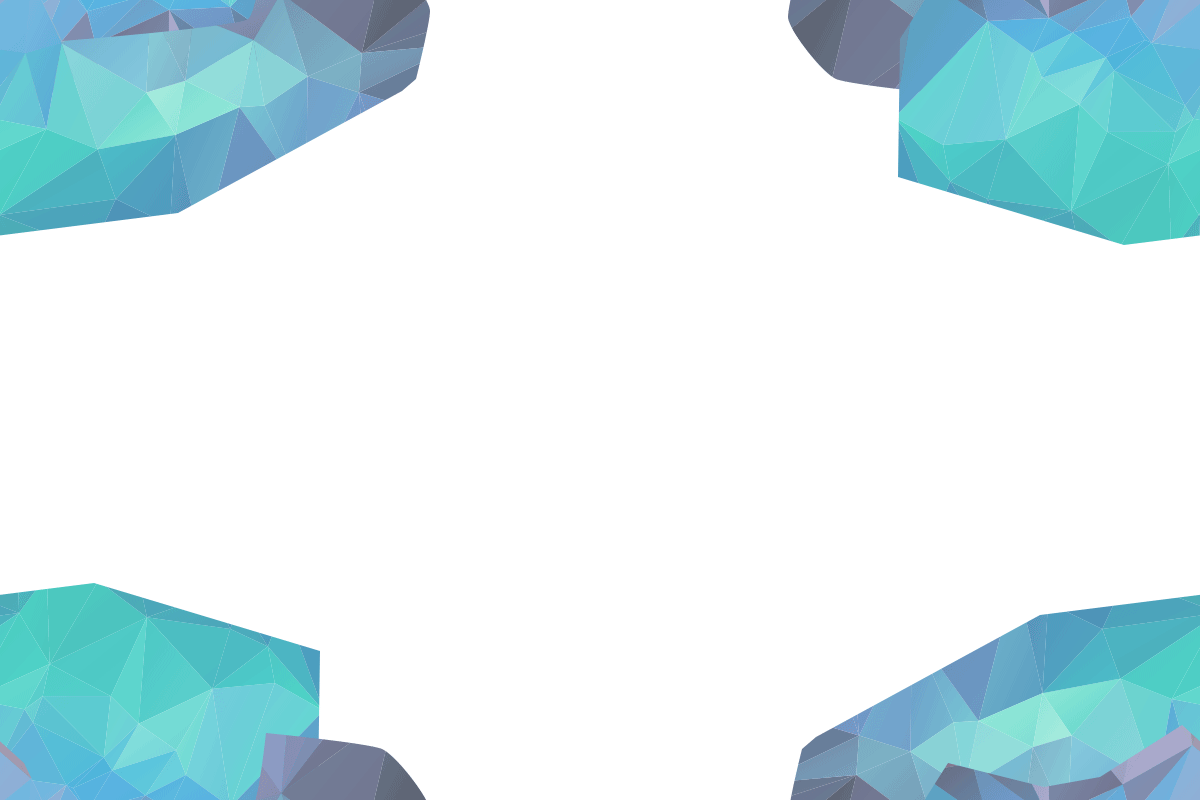
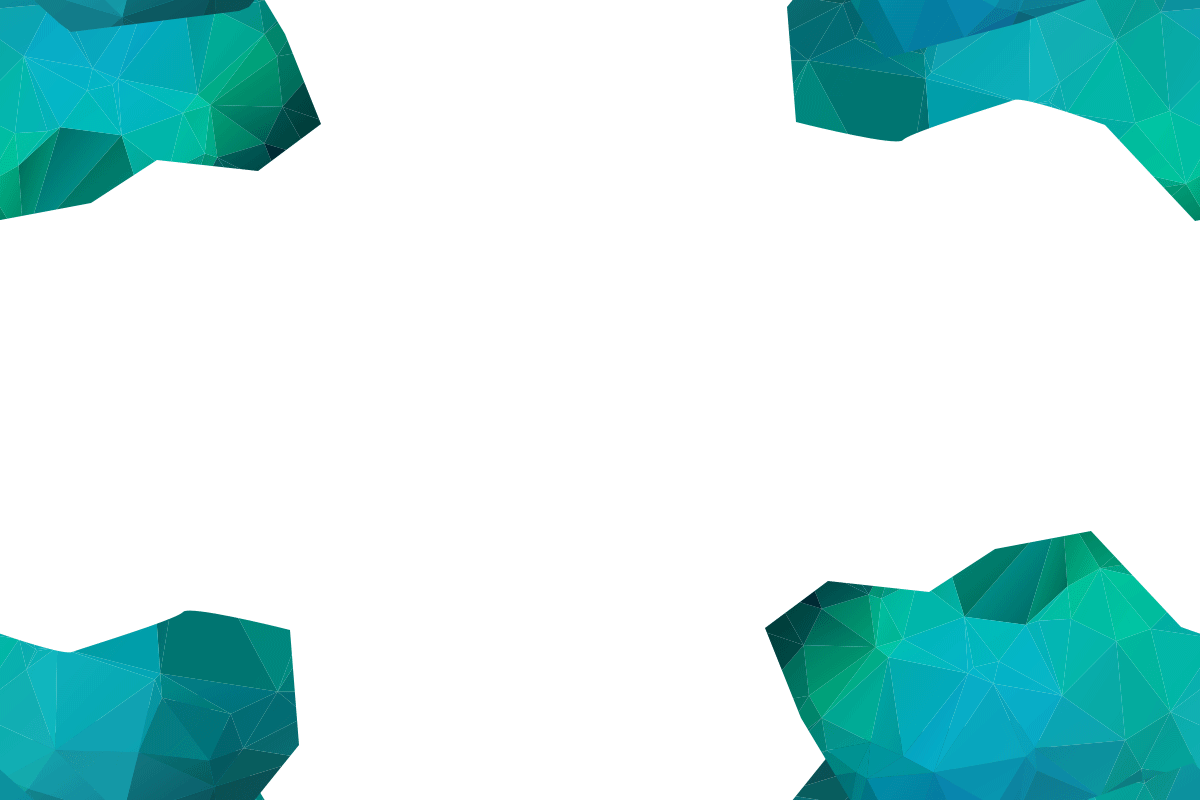
update intro section

diff --git a/new/css/style.css b/new/css/style.css
@@ -73,11 +73,12 @@ of those sections to manage the look and feel of the site. */
 
 /*Intro Section*/
 .intro-section {
-    height: 100%;
+    min-height: 90%;
     padding-top: 150px;
     text-align: center;
-    background-image: url("../img/1.png");
+    background-image: url("../img/0.png");
     background-size: cover; 
+    transition: background-image 1s ease;
     /*
     background-position: center center;
     position: relative;
@@ -91,6 +92,29 @@ li.letterM{
     max-width: 70%;
     margin-top: 5px;
 }
+h1.mudmie-name{
+    font-family: Cabin;
+    font-size: 90px;
+    color: #75CAFF;
+}
+h2.chatchanok{
+  font-family: Cabin;
+  font-size: 50px;
+  color: #46494c;   
+}
+h3.SYDE{
+    font-family: Cabin;
+    font-size: 30px;
+    color: #75CAFF;
+    margin-top: 25px;
+}
+/*.btn-default{
+    border: solid 2px #c5c3c6;
+    font-family: Cabin;
+    font-size: 30px;
+    color: #4c5c68;
+    margin-top: 20px;
+}*/
 
 #intro-mobile-fade {
     display: none;
@@ -104,7 +128,6 @@ li.letterM{
     #intro-mobile-fade {
         display: block;
     }
-    
 }
 
 /*About Section*/
@@ -112,7 +135,7 @@ li.letterM{
     height: 100%;
     padding-top: 70px;
     text-align: center;
-    background: #b2dfdb;
+    background-image:url();
 }
 
 /*Project*/

diff --git a/new/index.html b/new/index.html
@@ -92,10 +92,10 @@
         <div class="container">
             <div class="row">
                 <div class="col-lg-12">
-                    <h1>Mudmie</h1>
-                    <h2>Chatchanok Chuthamsatid </h2>
-                    <h3>Systems Design Engineering x University of Waterloo</h3>
-                    <a class="btn btn-default page-scroll" href="#about">Click Me to Scroll Down!</a>
+                    <h1 class="mudmie-name">MUDMIE</h1>
+                    <h2 class="chatchanok">Chatchanok Chuthamsatid </h2>
+                    <h3 class="SYDE">Systems Design Engineering x University of Waterloo</h3>
+                    <!--<a class="btn btn-default page-scroll" href="#about">Who Am I?</a>-->
                 </div>
             </div>
         </div>

diff --git a/new/js/scrolling-nav.js b/new/js/scrolling-nav.js
@@ -33,3 +33,17 @@ if (findHour > 18) {
 
 var el = document.getElementById('greeting');
 el.innerHTML = greetingMessage; //use textContent or innerHTML?
+
+var currentBackgroundImage = 0;
+
+//start function when ready
+// $(function() {})
+// $ === jQuery
+
+$(function(){
+    var $getClass = $('.intro-section');
+    window.setInterval (function () {
+        currentBackgroundImage = (currentBackgroundImage + 1) % 6; 
+        $getClass.css("background-image", "url('img/" + currentBackgroundImage + ".png')");
+    }, 3000);
+});
